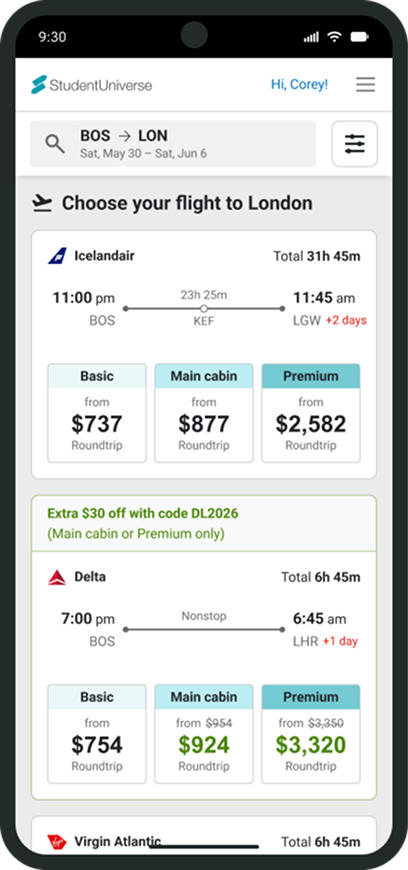
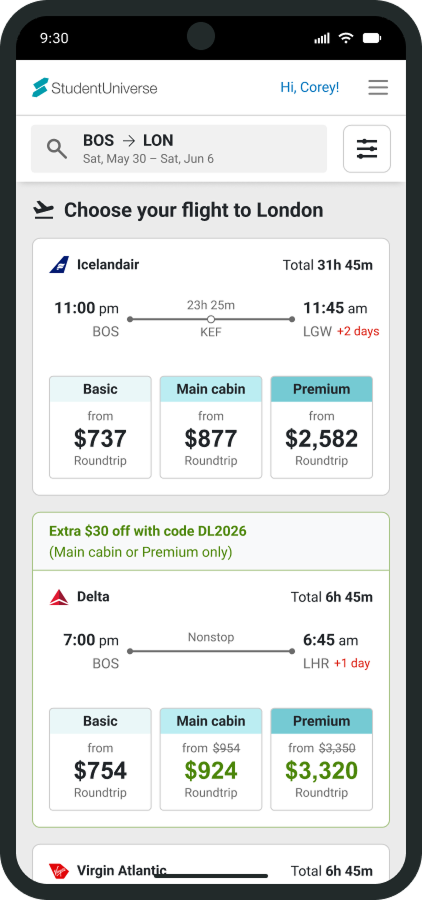
finished hotel page
- added images and finished formatting hotels
- reworked case study hero
- moved more hero styles to global.ss and converted .hero-content to grid

Changed region(s): [[0.8529, 0.3414, 0.8824, 0.3724], [0.7647, 0.0931, 0.7941, 0.1241]]

diff --git a/src/styles/case-study.css b/src/styles/case-study.css
@@ -1,5 +1,21 @@
+.hero {
+    padding-bottom: 0;
+}
+
+.hero-text {
+    height: fit-content;
+    align-self: center;
+}
+
 .hero-text h1 {
     margin-bottom: var(--spacing-xs);
+}
+
+.hero-image {
+    display: grid;
+    max-width: 66.66%;
+    justify-self: center;
+    align-items: end;
 }
 
 .company-name {
@@ -50,14 +66,6 @@
     gap: var(--spacing-sm);
 }
 
-.callout-category {
-    
-}
-
-.callout-category h3 {
-
-}
-
 .callout-category ul {
     list-style-type: none;
     margin-top: var(--spacing-xs);
@@ -73,10 +81,6 @@
     display: grid;
     grid-template-columns: 1fr;
     gap: var(--spacing-lg);
-}
-
-.section-body-text {
-
 }
 
 .feature-grid {
@@ -101,7 +105,7 @@
     margin: 0;
     display: flex;
     flex-direction: column;
-    justify-content: center;
+    justify-content: flex-start;
     align-items: center;
     overflow: hidden;
     height: 100%;
@@ -128,6 +132,25 @@
 }
 
 @media (min-width: 768px) {
+    .hero {
+        padding-top: var(--spacing-lg);
+    }
+
+    .hero-content {
+        grid-template-columns: 2fr 3fr;
+        gap: var(--spacing-lg);
+    }
+
+    .hero-text {
+        order: 2;
+        padding-bottom: var(--spacing-lg);
+    }
+
+    .hero-image {
+        order: 1;
+        max-width: none;
+    }
+
     .main-content {
         flex-direction: row;
         align-items: center;
@@ -151,20 +174,31 @@
     .section-body-text {
         margin-bottom: var(--spacing-lg);
     }
-
-    .section-body-image {
-        gap: 0;
-    }
 }
 
 @media (min-width: 1024px) {
+    .hero {
+        padding-top: var(--spacing-xl);
+    }
+
+    .hero-content {
+        grid-template-columns: 1fr 4fr;
+    }
+
+    .hero-text {
+        padding-bottom: var(--spacing-xl);
+    }
+
     .case-study-layout {
-        grid-template-columns: 220px 1fr;
+        grid-template-columns: 1fr 4fr;
     }
 
     .case-study-content > section:first-of-type {
         padding-top: 2.5rem;
     }
+}
+
+@media (min-width: 1310px) {
 }
 
 @media (min-width: 1920px) {

diff --git a/src/styles/global.css b/src/styles/global.css
@@ -172,6 +172,11 @@ a:hover {
   color: var(--color-primary-hover);
 }
 
+figcaption {
+    line-height: 1.2;
+    text-wrap: balance;
+}
+
 /*  Images  */
 img {
   max-width: 100%;
@@ -195,32 +200,21 @@ ul, ol {
 .hero {
     text-align: left;
     background: var(--color-background-primary);
-    padding: var(--spacing-xl) 0;
     display: flex;
     flex-direction: column;
     justify-content: center;
     align-items: start;
-    gap: 2rem;
+    padding-top: var(--spacing-lg);
+    padding-bottom: var(--spacing-xl);
 }
 
 .hero-content {
-    display: flex;
-    flex-direction: column;
+    display: grid;
+    grid-template-columns: 1fr;
     gap: var(--spacing-md);
     max-width: 1200px;
     margin: 0 var(--spacing-md);
 }
-
-.hero-text {
-    max-width: 800px;
-}
-
-  /* .hero h1 {
-    font-size: 2.5rem;
-    font-weight: 700;
-    margin-bottom: 0.5rem;
-    color: var(--color-text-primary);
-  } */
 
 .hero h2 {
     font-size: var(--font-size-xl);
@@ -251,7 +245,6 @@ ul, ol {
 
     .hero {
         flex-direction: row;
-        text-align: left;
         align-items: center;
         gap: var(--spacing-xl);
         padding: var(--spacing-2xl) 0;
@@ -259,13 +252,12 @@ ul, ol {
 
     .hero-content {
         flex: 1;
-        gap: var(--spacing-md);
         margin: 0 var(--spacing-lg);
     }
 
     .hero-image {
-      flex: 1;
-      max-width: 400px;
+        max-width: 400px;
+        justify-self: end;
     }
         
     .section-header {
@@ -276,15 +268,7 @@ ul, ol {
 
   /* === Desktop (min-width: 1024px) === */
   @media (min-width: 1024px) {
-    .hero {
-    }
-
-    .hero-content {
-        flex-direction: row;
-        align-items: center;
-    }
-
     .hero-image {
-      max-width: 500px;
+        max-width: 500px;
     }
   }
